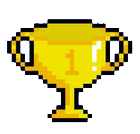
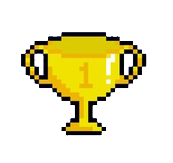
arrumando branch
Arrumamos as margens top e bottom de cadastro e perfil
Arrumamos o tamanho dos troféus em tela de menu principal

Changed region(s): [[0.0286, 0.1194, 0.9714, 0.9254]]

diff --git a/View/screens/login/login.html b/View/screens/login/login.html
@@ -16,7 +16,7 @@
         <div class="box">
             <!-- <form class="form-login">email</form>
             <form class="form-login">senha</form> -->
-            <div class="teste"><img class="img-pirata" src="/View/shared/imgs/Pirata_char/pirata_png.png" style="background-color: white; width: 150px; height: 150px;"></div>
+            <div class="teste"><img class="img-pirata" src="../../shared/imgs/Pirata_char/pirata_jpg.gif" style="background-color: white; width: 150px; height: 150px;"></div>
             
             <form>
                 <ul class="flex">

diff --git a/View/screens/tela_cadastro/tela_cadastro.html b/View/screens/tela_cadastro/tela_cadastro.html
@@ -13,7 +13,7 @@
 </head>
 
 <body class="background">
-    <h2 class="shared" style="text-align: center; margin-top:10px;">Cadastre-se</h2>
+    <h1 class="shared" style="text-align: center; margin-top:1rem; margin-bottom: 1rem; font-size: var(--header2);">Cadastre-se</h1>
 
     <div class="box">
         <form>

diff --git a/View/screens/tela_perfil/tela_perfil.html b/View/screens/tela_perfil/tela_perfil.html
@@ -14,7 +14,7 @@
 </head>
 
 <body class="background">
-    <h2 class="shared" style="text-align: center; margin-top:10px;">seu perfil</h2>
+    <h2 class="shared" style="text-align: center; margin-top:1rem; margin-bottom: 1rem; font-size: var(--header2);">seu perfil</h2>
 
     <div class="box">
         <form>

diff --git a/View/screens/tela-jogo-classico/tela-jogo-classico.css b/View/screens/tela-jogo-classico/tela-jogo-classico.css
@@ -15,6 +15,7 @@ body{
     width: 100%; 
     display: flex; 
     justify-content: center;
+    flex-direction: row;
     vertical-align: middle; 
 }
 

diff --git a/View/screens/tela-jogo-rivotril/tela-jogo-rivotril.css b/View/screens/tela-jogo-rivotril/tela-jogo-rivotril.css
@@ -15,6 +15,7 @@ body{
     width: 100%; 
     display: flex; 
     justify-content: center;
+    flex-direction: row;
     vertical-align: middle; 
 }
 
